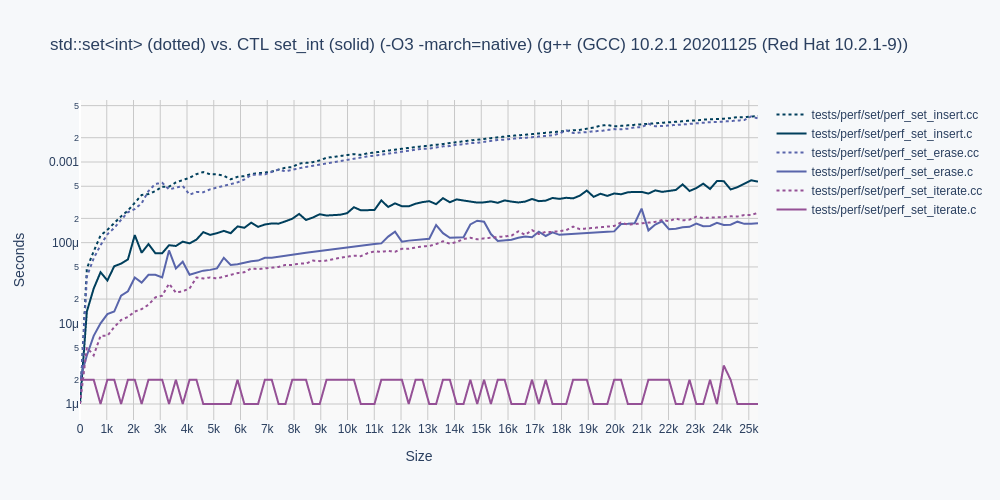
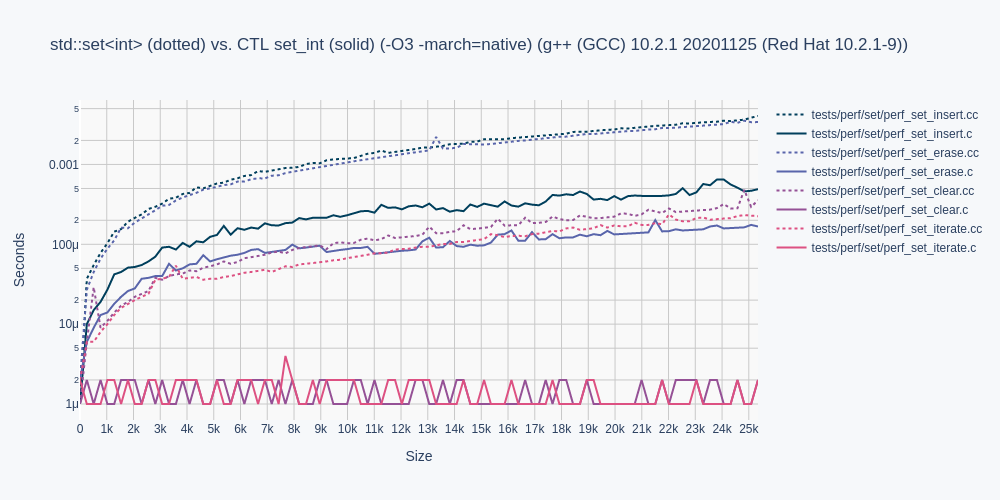
faster set.clear
erase_fast without rebelancing. first erase all right, then the left.
this is now linear.
Much faster also now than the STL set.clear

glouw's set.clear is extremely inefficient, by first searching for the root key,
not using erase_node (root).

Changed region(s): [[0.031, 0.21, 0.775, 0.81], [0.775, 0.36, 0.992, 0.51]]

diff --git a/ctl/set.h b/ctl/set.h
@@ -626,11 +626,25 @@ JOIN(A, erase_6)(A* self, B* node)
     }
 }
 
+// erase without rebalancing. e.g. for clear
+static inline void
+JOIN(B, erase_fast)(A* self, B* node)
+{
+    while(node)
+    {
+        JOIN(B, erase_fast)(self, node->r);
+        B* left = node->l;
+        JOIN(A, free_node)(self, node);
+        node = left;
+        self->size--;
+    }
+}
+
 static inline void
 JOIN(A, clear)(A* self)
 {
     while(!JOIN(A, empty)(self))
-        JOIN(A, erase)(self, self->root->key);
+        JOIN(B, erase_fast)(self, self->root);
 }
 
 static inline void
